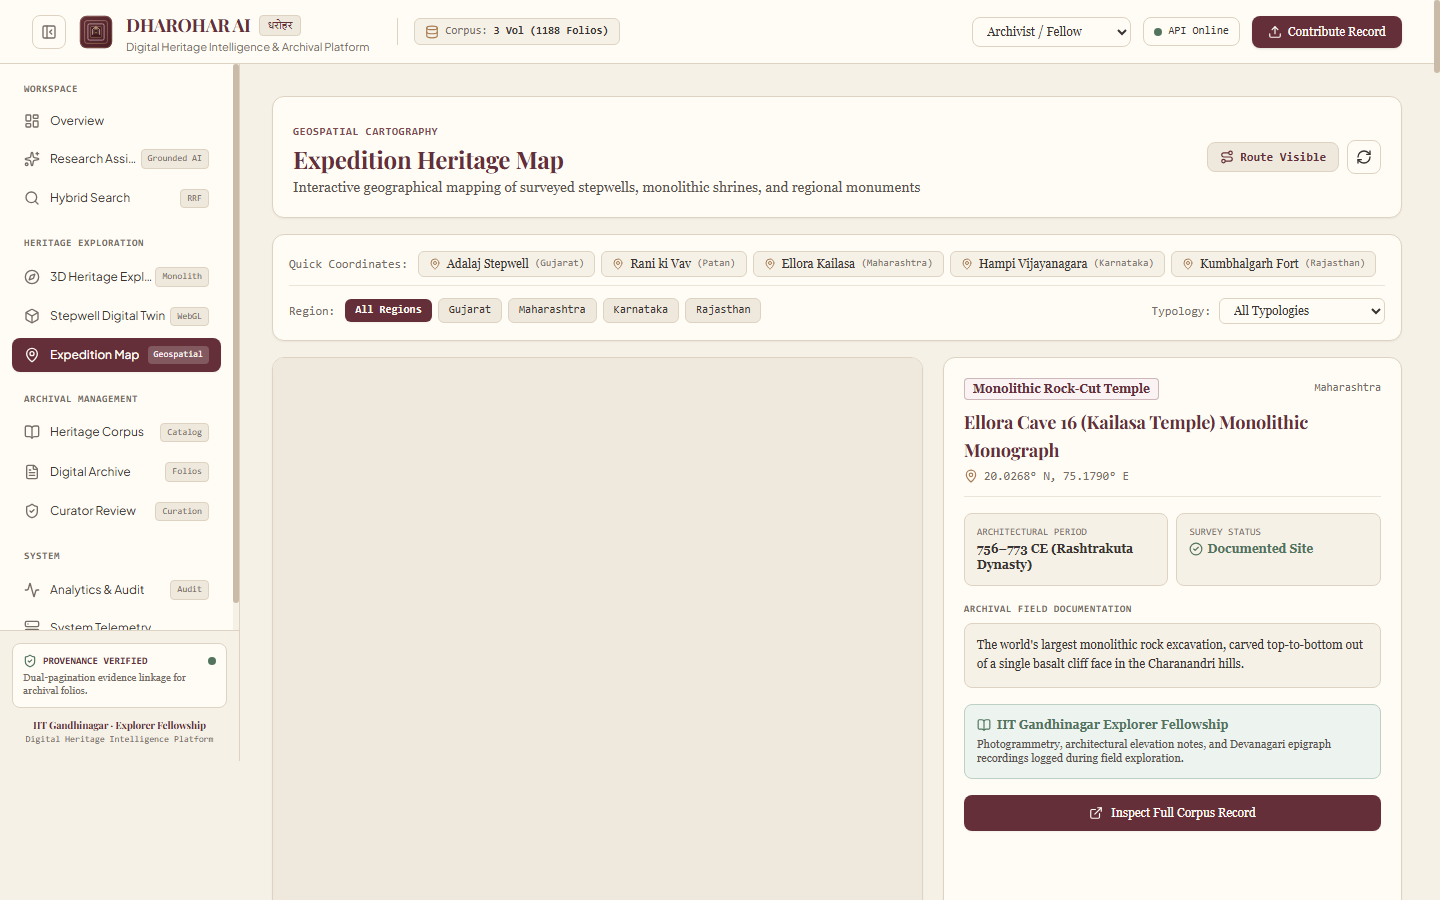
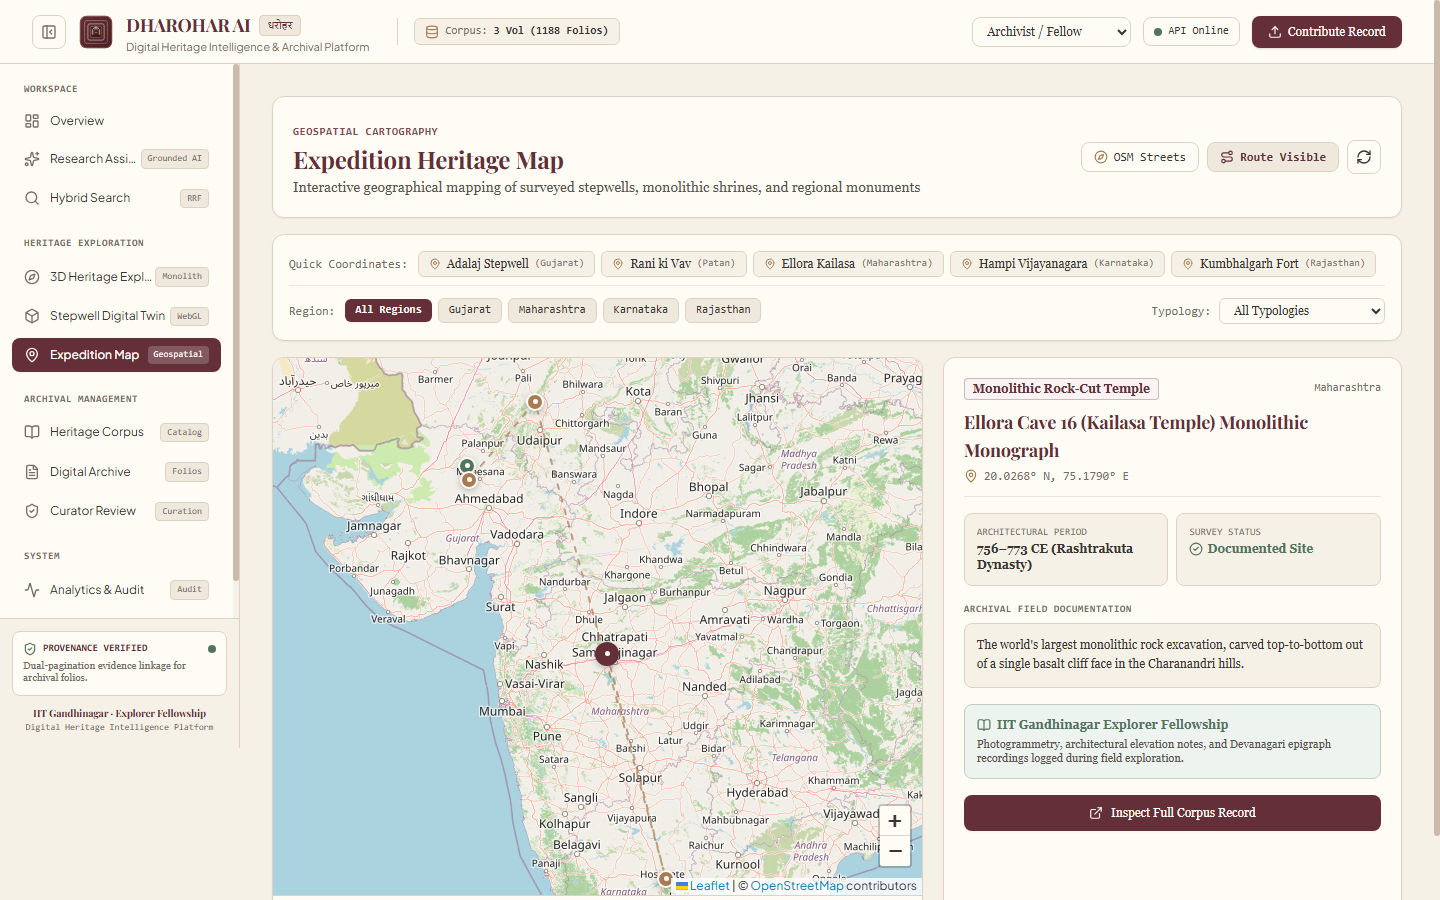
fix(map): replace CartoDB tiles with OpenStreetMap and Esri Topo relief to resolve API key watermark

diff --git a/frontend/src/components/GeospatialMapSection.tsx b/frontend/src/components/GeospatialMapSection.tsx
@@ -13,7 +13,8 @@ import {
 } from 'lucide-react';
 import { fetchMapRecords, MapRecordItem } from '@/lib/api';
 
-import type { Map as LeafletMap, LayerGroup, Polyline } from 'leaflet';
+import type { Map as LeafletMap, LayerGroup, Polyline, TileLayer } from 'leaflet';
+import 'leaflet/dist/leaflet.css';
 
 interface GeospatialMapSectionProps {
   onSelectRecord?: (recordId: string) => void;
@@ -26,11 +27,13 @@ export default function GeospatialMapSection({ onSelectRecord }: GeospatialMapSe
   const [activeFilter, setActiveFilter] = useState<string>('all');
   const [activeRegion, setActiveRegion] = useState<string>('all');
   const [showRoutes, setShowRoutes] = useState<boolean>(true);
+  const [baseLayer, setBaseLayer] = useState<'osm' | 'topo'>('osm');
 
   const mapContainerRef = useRef<HTMLDivElement>(null);
   const mapInstanceRef = useRef<LeafletMap | null>(null);
   const markersGroupRef = useRef<LayerGroup | null>(null);
   const routePolylineRef = useRef<Polyline | null>(null);
+  const tileLayerRef = useRef<TileLayer | null>(null);
 
   const regions = [
     { id: 'all', label: 'All Regions' },
@@ -108,19 +111,45 @@ export default function GeospatialMapSection({ onSelectRecord }: GeospatialMapSe
 
         L.control.zoom({ position: 'bottomright' }).addTo(map);
 
-        // CartoDB Voyager Tile Layer (High legibility for cultural geography)
-        L.tileLayer('https://{s}.basemaps.cartocdn.com/rastertiles/voyager/{z}/{x}/{y}{r}.png', {
-          attribution: '&copy; OpenStreetMap contributors &copy; CARTO',
+        // OpenStreetMap Canonical Subdomains Tile Layer (Free, no API key required)
+        const tile = L.tileLayer('https://{s}.tile.openstreetmap.org/{z}/{x}/{y}.png', {
+          attribution: '&copy; <a href="https://www.openstreetmap.org/copyright" target="_blank" rel="noreferrer">OpenStreetMap</a> contributors',
           maxZoom: 19,
+          subdomains: ['a', 'b', 'c'],
         }).addTo(map);
+        tileLayerRef.current = tile;
 
         markersGroupRef.current = L.layerGroup().addTo(map);
         mapInstanceRef.current = map;
+
+        setTimeout(() => {
+          map.invalidateSize();
+        }, 150);
       }
 
       const map = mapInstanceRef.current;
       const markersGroup = markersGroupRef.current;
       if (!map || !markersGroup) return;
+
+      // Update tile layer if baseLayer switched
+      if (tileLayerRef.current) {
+        map.removeLayer(tileLayerRef.current);
+        const tileUrl =
+          baseLayer === 'topo'
+            ? 'https://server.arcgisonline.com/ArcGIS/rest/services/World_Topo_Map/MapServer/tile/{z}/{y}/{x}'
+            : 'https://{s}.tile.openstreetmap.org/{z}/{x}/{y}.png';
+        const tileAttribution =
+          baseLayer === 'topo'
+            ? 'Tiles &copy; Esri &mdash; Sources: GEBCO, USGS, NOAA, National Geographic'
+            : '&copy; <a href="https://www.openstreetmap.org/copyright" target="_blank" rel="noreferrer">OpenStreetMap</a> contributors';
+
+        const newTile = L.tileLayer(tileUrl, {
+          attribution: tileAttribution,
+          maxZoom: baseLayer === 'topo' ? 18 : 19,
+          subdomains: ['a', 'b', 'c'],
+        }).addTo(map);
+        tileLayerRef.current = newTile;
+      }
 
       markersGroup.clearLayers();
       if (routePolylineRef.current) {
@@ -200,7 +229,7 @@ export default function GeospatialMapSection({ onSelectRecord }: GeospatialMapSe
     };
 
     void initMap();
-  }, [sites, selectedSite, activeFilter, activeRegion, showRoutes]);
+  }, [sites, selectedSite, activeFilter, activeRegion, showRoutes, baseLayer]);
 
   const handleJumpTo = (coords: number[]) => {
     if (mapInstanceRef.current) {
@@ -225,6 +254,17 @@ export default function GeospatialMapSection({ onSelectRecord }: GeospatialMapSe
         </div>
 
         <div className="flex items-center gap-2">
+          {/* Base Layer Switcher (OSM Streets vs Topographic Relief) */}
+          <button
+            type="button"
+            onClick={() => setBaseLayer(baseLayer === 'osm' ? 'topo' : 'osm')}
+            className="flex items-center gap-1.5 px-3 py-1.5 rounded-lg border border-[#DED3C2] bg-[#FFFCF5] hover:bg-[#F6F1E7] text-xs font-mono text-[#393331] transition-colors cursor-pointer"
+            title="Toggle between OpenStreetMap Streets and Esri Topographic Relief"
+          >
+            <Compass className="w-3.5 h-3.5 text-[#A77C54]" />
+            <span>{baseLayer === 'osm' ? 'OSM Streets' : 'Topo Relief'}</span>
+          </button>
+
           {/* Toggle Route Trail */}
           <button
             type="button"
